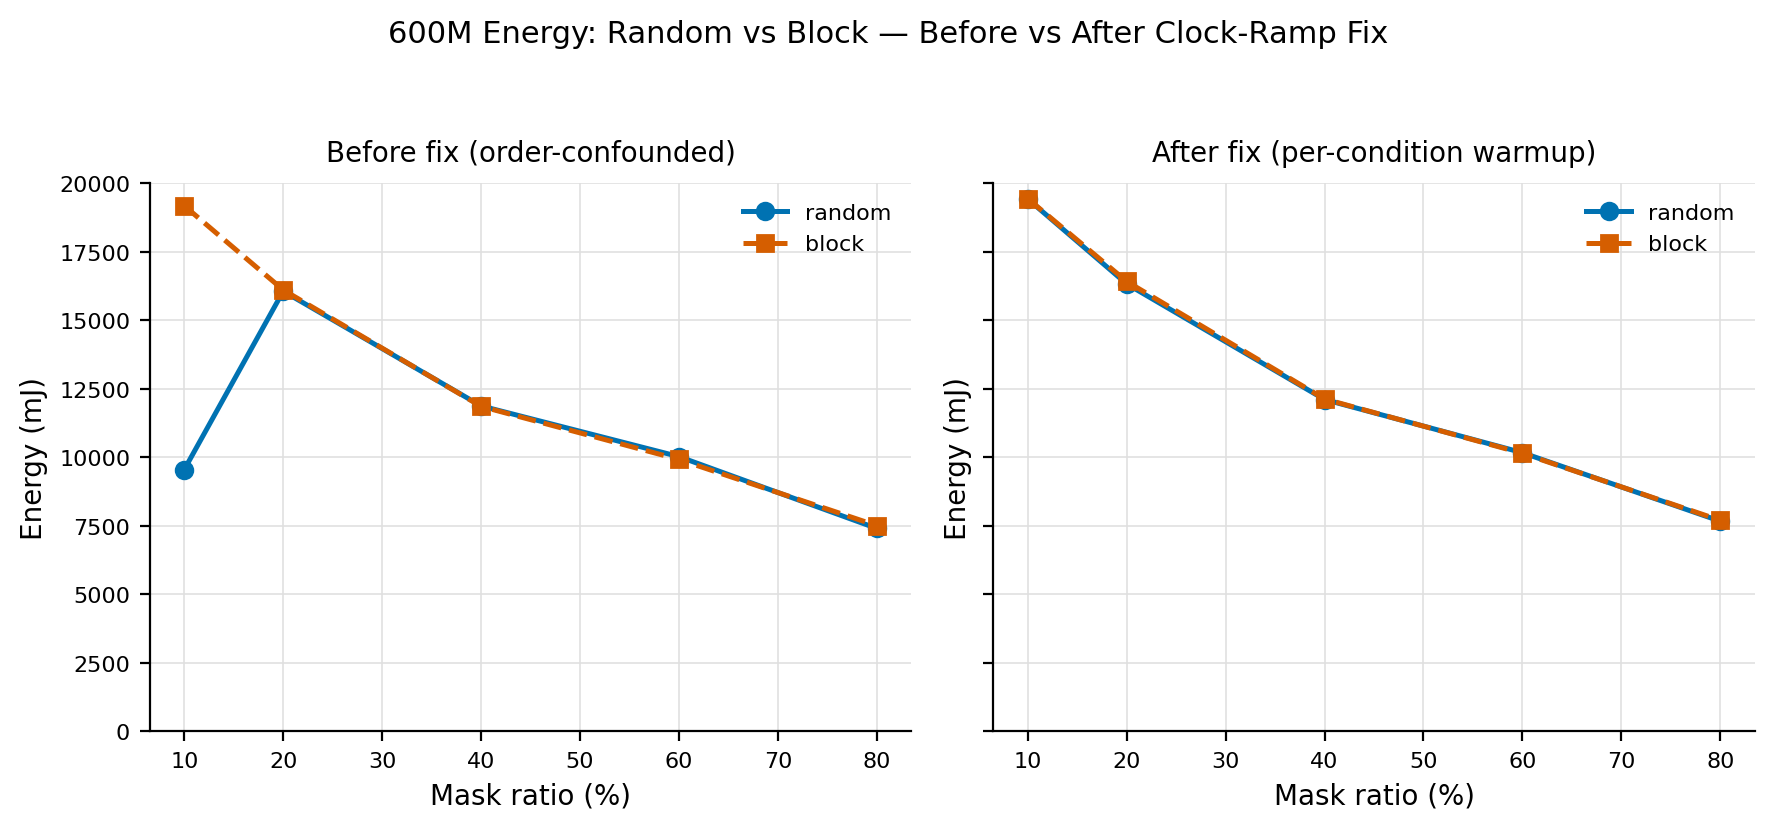
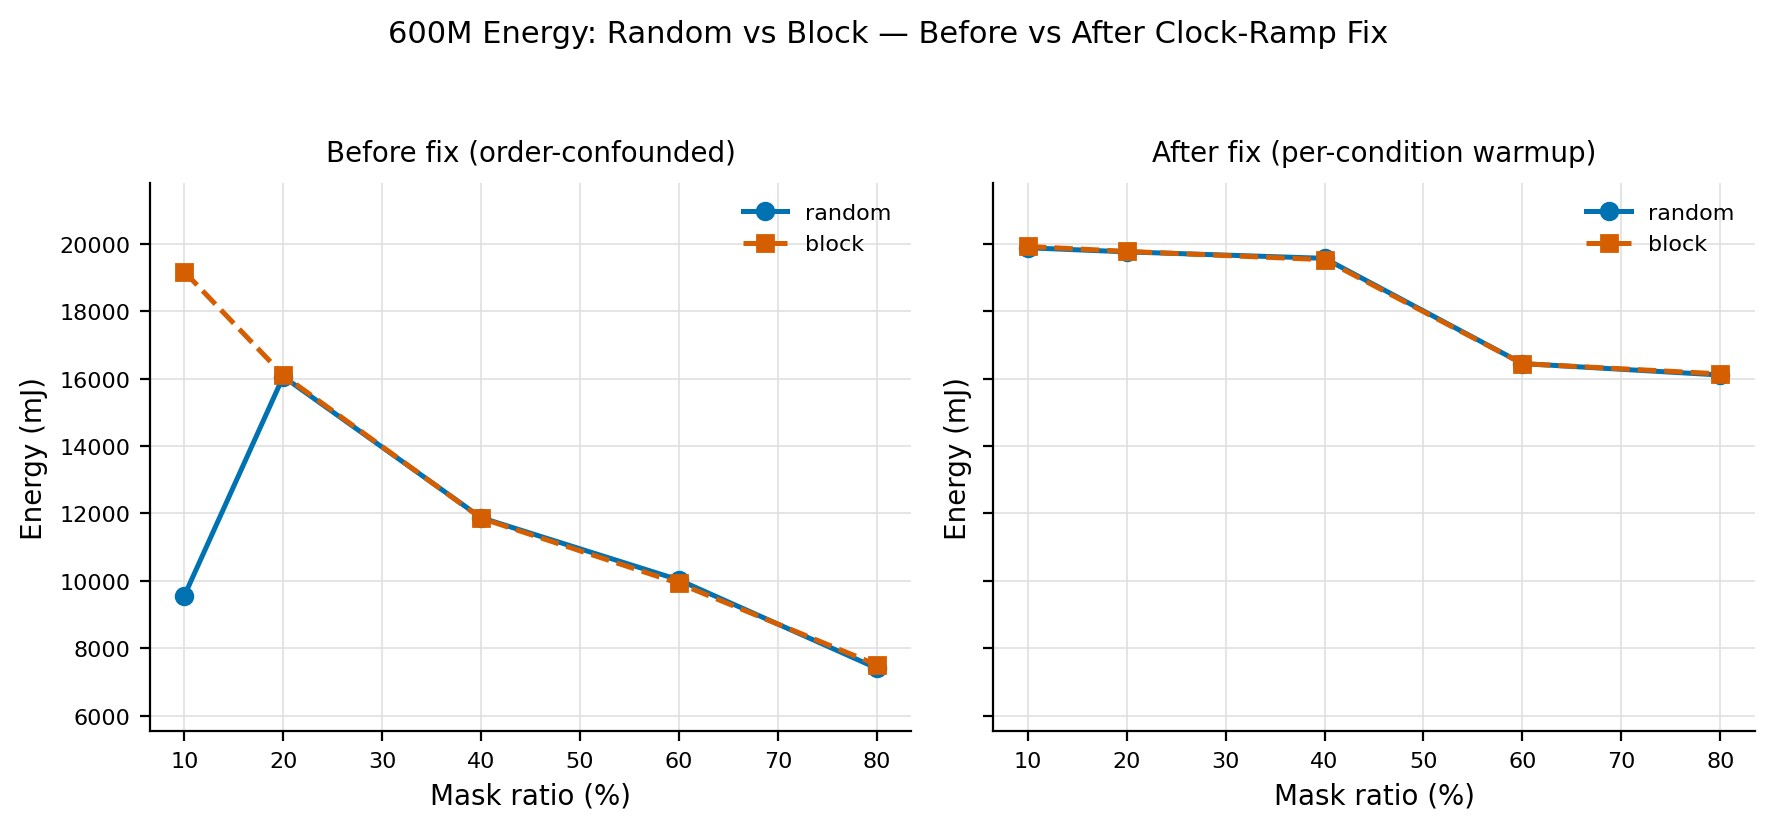
Split energy plotting into two scripts, fix stale masking-confounded data
The recovered plot_energy_fixed_vs_unfixed.py (archived, git history only)
combined two unrelated figures in one file and read energy_FIXED_warmup_...csv,
which despite the name used the PRE-2026-07-16 masking convention (archive
commit 8473347 confirms: 'measured under the old masking convention').

Split to match this project's one-script-per-figure convention:
- plot_energy_vs_ratio.py -> fig_energy_vs_ratio.png (renamed from
  fig_energy_vs_ratio_FIXED.png; title dropped '(Fixed Measurement)').
  Now reads inference_energy.csv, corrected on both axes (temporal_gap_masker
  + GPU_WARMUP_S=3.0 clock-ramp fix). Log-scale shared y-axis across all
  four backbones (~10x energy range, linear shared axis would flatten
  tiny/100M/300M) -- deliberate override of the zero-start convention.
- plot_energy_before_after_fix.py -> fig_energy_before_after_fix_600M.png
  (filename unchanged, genuinely about the fix). Before panel still reads
  the archived (masking-unrelated) UNFIXED CSV; after panel now reads
  inference_energy.csv instead of the invalidated FIXED CSV. Y-axis
  tightened to the real combined min/max, deliberate override of zero-start.

diff --git a/multi_tile_generalization/block_masking_study/scripts/plot_energy_before_after_fix.py b/multi_tile_generalization/block_masking_study/scripts/plot_energy_before_after_fix.py
@@ -1,0 +1,75 @@
+"""
+plot_energy_before_after_fix.py
+--------------------------------
+600M energy, random vs block, before vs after the GPU clock-ramp fix
+(per-condition GPU_WARMUP_S=3.0 warmup loop, see measure_inference_energy.py).
+"Before" is order-confounded (whichever condition ran first read artificially
+low power); "after" uses a fixed warmup so order no longer matters.
+
+Data:
+  before -> outputs/old_confounded/energy_UNFIXED_order_10_20_40_60_80_allBB.csv
+  after  -> outputs/inference_energy.csv (also has the corrected masker applied,
+            but that's orthogonal to what this figure demonstrates -- this panel
+            is about the GPU-timing fix specifically, not the masking fix)
+
+Y-axis: DELIBERATE OVERRIDE of the zero-start convention used elsewhere in this
+project (2026-07-16, by request). Both panels' 600M energy values sit in a
+narrow high band (~7.5k-20k mJ); a zero-anchored axis squeezed the actual
+curve shape into the top ~15% of the plot. Range is computed from the real
+combined min/max of both datasets (not hand-picked), padded ~15%, and shared
+identically across both panels via sharey=True.
+
+Reads -> outputs/figures/fig_energy_before_after_fix_600M.png
+"""
+import os, sys
+from pathlib import Path
+import pandas as pd
+import matplotlib.pyplot as plt
+sys.path.insert(0, os.path.expanduser("~/Prithvi"))
+from plot_style import apply_style, style_ax, COLORS, FIGSIZE, FONT
+
+apply_style()
+
+SCRIPT_DIR = Path(__file__).resolve().parent
+OUT_ROOT = SCRIPT_DIR.parent / "outputs"
+BEFORE_CSV = OUT_ROOT / "old_confounded" / "energy_UNFIXED_order_10_20_40_60_80_allBB.csv"
+AFTER_CSV  = OUT_ROOT / "inference_energy.csv"
+OUT_DIR = OUT_ROOT / "figures"
+OUT_DIR.mkdir(parents=True, exist_ok=True)
+
+df_before = pd.read_csv(BEFORE_CSV)
+df_after  = pd.read_csv(AFTER_CSV)
+
+b600 = df_before[df_before["backbone"] == "600M"]["energy_mean"]
+a600 = df_after[df_after["backbone"] == "600M"]["energy_mean"]
+combined = pd.concat([b600, a600])
+lo, hi = combined.min(), combined.max()
+pad = (hi - lo) * 0.15
+Y_LIM_600M = (lo - pad, hi + pad)
+
+fig, axes = plt.subplots(1, 2, figsize=FIGSIZE["wide"], sharey=True)
+
+for ax, df_src, title in [
+    (axes[0], df_before, "Before fix (order-confounded)"),
+    (axes[1], df_after,  "After fix (per-condition warmup)"),
+]:
+    sub = df_src[df_src["backbone"] == "600M"].sort_values("mask_ratio")
+    rand = sub[sub["mask_type"] == "random"]
+    block = sub[sub["mask_type"] == "block"]
+
+    ax.plot(rand["mask_ratio"] * 100, rand["energy_mean"],
+            marker="o", linestyle="-", color=COLORS["blue"], label="random", linewidth=1.8)
+    ax.plot(block["mask_ratio"] * 100, block["energy_mean"],
+            marker="s", linestyle="--", color=COLORS["vermillion"], label="block", linewidth=1.8)
+
+    ax.set_ylim(*Y_LIM_600M)
+    style_ax(ax, xlabel="Mask ratio (%)", ylabel="Energy (mJ)", title=title)
+    ax.legend(fontsize=FONT["legend"])
+
+fig.suptitle("600M Energy: Random vs Block — Before vs After Clock-Ramp Fix",
+             fontsize=FONT["title"] + 1, y=1.03)
+fig.tight_layout()
+out = OUT_DIR / "fig_energy_before_after_fix_600M.png"
+fig.savefig(out)
+plt.close(fig)
+print("Wrote", out)

diff --git a/multi_tile_generalization/block_masking_study/scripts/plot_energy_vs_ratio.py b/multi_tile_generalization/block_masking_study/scripts/plot_energy_vs_ratio.py
@@ -1,0 +1,77 @@
+"""
+plot_energy_vs_ratio.py
+------------------------
+Energy vs mask ratio, random vs block overlaid, one panel per backbone.
+Data: inference_energy.csv -- corrected on BOTH axes (temporal_gap_masker's
+fixed block/random maskers, and the GPU_WARMUP_S=3.0 per-condition clock-ramp
+fix). Supersedes the archived energy_FIXED_warmup_...csv, which used the old
+(pre-2026-07-16) masking convention despite the "FIXED" name -- that name only
+referred to the GPU-timing fix, not the masking fix.
+
+Y-axis: log-scale, SHARED across all four backbones (sharey=True, DELIBERATE
+override of the zero-start convention, by request 2026-07-16). Backbone
+energy spans ~10x (tiny ~1.8k mJ vs 600M ~20k mJ) -- a literal linear shared
+range would flatten the smaller backbones to near-invisible lines. Log scale
+keeps proportional change visible for every backbone on one consistent axis.
+ScalarFormatter keeps tick labels as plain numbers, not powers of ten.
+
+Reads outputs/inference_energy.csv -> outputs/figures/fig_energy_vs_ratio.png
+"""
+import os, sys
+from pathlib import Path
+import pandas as pd
+import matplotlib.pyplot as plt
+from matplotlib.ticker import LogLocator, FuncFormatter
+sys.path.insert(0, os.path.expanduser("~/Prithvi"))
+from plot_style import apply_style, style_ax, BACKBONE_COLORS, FONT
+
+apply_style()
+
+SCRIPT_DIR = Path(__file__).resolve().parent
+OUT_ROOT = SCRIPT_DIR.parent / "outputs"
+CSV = OUT_ROOT / "inference_energy.csv"
+OUT_DIR = OUT_ROOT / "figures"
+OUT_DIR.mkdir(parents=True, exist_ok=True)
+
+BACKBONES = ["tiny", "100M", "300M", "600M"]
+
+df = pd.read_csv(CSV)
+
+# Shared log-scale range across all four panels, ~12% padded beyond the
+# global min/max (computed from real data, not hand-picked).
+lo, hi = df["energy_mean"].min(), df["energy_mean"].max()
+YLIM = (lo / 1.12, hi * 1.12)
+
+fig, axes = plt.subplots(2, 2, figsize=(9, 7), sharey=True)
+axes = axes.flatten()
+
+for i, bb in enumerate(BACKBONES):
+    ax = axes[i]
+    sub = df[df["backbone"] == bb].sort_values("mask_ratio")
+    color = BACKBONE_COLORS[bb]
+
+    rand = sub[sub["mask_type"] == "random"]
+    block = sub[sub["mask_type"] == "block"]
+
+    ax.plot(rand["mask_ratio"] * 100, rand["energy_mean"],
+            marker="o", linestyle="-", color=color, label="random", linewidth=1.8)
+    ax.plot(block["mask_ratio"] * 100, block["energy_mean"],
+            marker="s", linestyle="--", color=color, label="block", linewidth=1.8,
+            alpha=0.7)
+
+    ax.set_yscale("log")
+    ax.set_ylim(*YLIM)
+    ax.yaxis.set_major_locator(LogLocator(base=10.0, subs=(1.0, 2.0, 5.0)))
+    ax.yaxis.set_major_formatter(FuncFormatter(lambda y, _: f"{int(round(y)):,}"))
+    ax.yaxis.set_minor_locator(LogLocator(base=10.0, subs=()))  # no minor ticks
+    style_ax(ax, xlabel="Mask ratio (%)", ylabel="Energy (mJ)", title=f"{bb}")
+    if i == 0:
+        ax.legend(fontsize=FONT["legend"])
+
+fig.suptitle("Energy vs Mask Ratio — Random vs Block (log scale, shared y-axis)",
+             fontsize=FONT["title"] + 1, y=1.02)
+fig.tight_layout()
+out = OUT_DIR / "fig_energy_vs_ratio.png"
+fig.savefig(out)
+plt.close(fig)
+print("Wrote", out)
